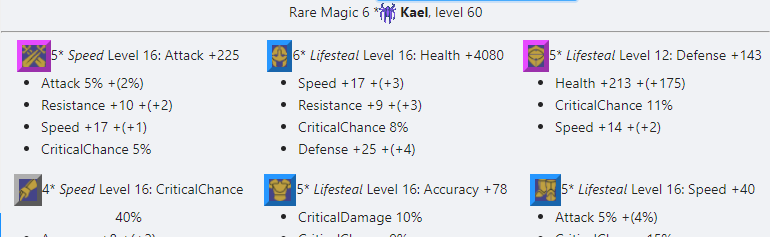
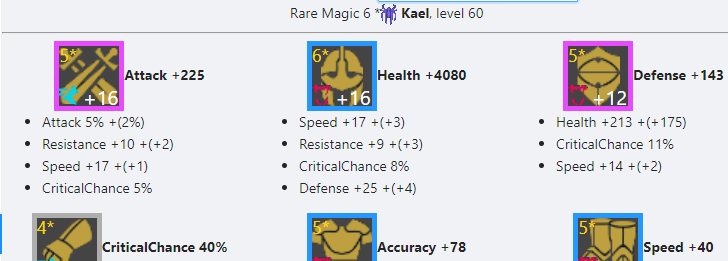
champion detail made less ugly

diff --git a/src/ArtifactRune.js b/src/ArtifactRune.js
@@ -1,0 +1,74 @@
+import React from 'react';
+import Formatter from './Formatter';
+import artifactSetsConfig from './config/artifact_sets.json';
+import artifactTypeConfig from './config/artifact_types.json';
+import Numberer from './Numberer';
+
+/**
+ * 'Rune' showing an artifact
+ * props:
+ *   artifact: the artifact to render
+ */
+class ArtifactRune extends React.Component {
+  constructor(props) {
+    super(props);
+    this.formatter = new Formatter();
+    this.numberer = new Numberer();
+    // keep a map from artifact type to data
+    this.artifactTypeMap = {};
+    artifactTypeConfig.artifact_types.forEach((typeSpec) => {
+      this.artifactTypeMap[typeSpec.key.toLowerCase()] = typeSpec;
+    });
+    // and from set type to set spec
+    this.setSpecMap = {};
+    artifactSetsConfig.sets.forEach((setSpec) => {
+      if (setSpec.jsonKey) this.setSpecMap[setSpec.jsonKey] = setSpec;
+      if (setSpec.key) this.setSpecMap[setSpec.key] = setSpec;
+    });
+
+  }
+  render() {
+    var artifact = this.props.artifact;
+    var typeSpec = this.artifactTypeMap[artifact.kind.toLowerCase()];
+    // the type and the rarity can go together in the image:
+    var msg = artifact.rarity + " " + typeSpec.label;
+    var starsText = this.numberer.Rank(artifact.rank) + "*";
+    msg = starsText + " " + msg;
+    // then a container div wrapping the image and stuff atop it
+    var containerDiv;
+    // the base image
+    var baseImg = this.formatter.Image(typeSpec.icon, msg, { "className": "artifact_icon", "rarity": artifact.rarity });
+    // the 'meatball' denoting the artifact set.
+    var meatball = null;
+    if (artifact.setKind && artifact.setKind !== "None") {
+      var spec = this.setSpecMap[artifact.setKind];
+      if (spec != null) {
+        meatball = this.formatter.Image("pix/armor_sets/" + spec.icon, spec.label,
+          { "className": "artifact_card meatball" });
+      }
+    }
+    var levelText = artifact.level ? ("+" + artifact.level) : "";
+    var level = <div className="artifact_card level_overlay">{levelText}</div>
+    var stars = <div className="artifact_card stars_overlay">{starsText}</div>
+    containerDiv = <div className="container">
+      {baseImg}
+      {stars}
+      {level}
+      {meatball}
+    </div>
+    var toRight = artifact.primaryBonus ? (<div className="primary">{this.formatter.Bonus(artifact.primaryBonus)}</div>)
+      : <div className="primary" />;
+    return <div className="artifact_rune">
+      {containerDiv}
+      {toRight}
+    </div>
+    /*
+  if (artifact.primaryBonus) {
+    parts.push(<span key="5"> {this.formatter.Bonus(artifact.primaryBonus)}</span>)
+  }
+  return <span>{parts}</span>
+  */
+  }
+}
+
+export default ArtifactRune;

diff --git a/src/App.css b/src/App.css
@@ -80,14 +80,20 @@ img.marker_icon {
 }
 
 img.artifact_icon {
-  height: 32px;
+  height: 70px;
+  width: 70px;
   border-width: thick;
-  border-style: outset;
-  background-color: #448;
+  border-style: solid;
+  background-color: #444;
+  object-fit: contain;
 }
 
 img.artifact_icon[rarity="Common"] {
   border-color: #AEAEAE;
+}
+
+img.artifact_icon[rarity="Uncommon"] {
+  border-color: #19D041;
 }
 
 img.artifact_icon[rarity="Rare"] {
@@ -122,6 +128,67 @@ div.help_page img {
   border-style: solid;
   border-width: thin;
   border-color: gray;
+}
+
+div.artifact_rune {
+  display: inline-block;
+}
+
+div.artifact_rune div.primary {
+  display: inline;
+  font-weight: bold;
+}
+
+div.artifact_rune div.container {
+  width: 70px;
+  height: 70px;
+  display: inline-block;
+  vertical-align: middle;
+  position: relative;
+}
+
+.artifact_card {
+  width: 100%;
+  height: 100%;
+  position: absolute;
+  top: 0;
+  left: 0;
+  opacity: 1.0;
+}
+
+div.stars_overlay {
+  z-index: 3;
+  top: 0px;
+  opacity: 1.0;
+  height:20px;
+  text-align: left;
+  color: gold;
+  background-image: none;
+  font-size:18px;
+  left: 5px;
+  cursor:default;
+}
+
+div.level_overlay {
+  z-index: 4;
+  top: 40px;
+  opacity: 1.0;
+  height:24px;
+  text-align: right;
+  color: white;
+  background-image: none;
+  font-size:20px;
+  left:-6px;
+  cursor:default;
+}
+
+img.meatball {
+  z-index: 8;
+  opacity: 1.0;
+  height:20px;
+  width:20px;
+  top:44px;
+  left: 5px;
 }
 
 @keyframes App-logo-spin {

diff --git a/src/LockComponent.js b/src/LockComponent.js
@@ -2,7 +2,7 @@ import React from 'react';
 import Formatter from './Formatter';
 import PossibilityCount from './PossibilityCount';
 import artifactTypeConfig from './config/artifact_types.json';
-import ArtifactOneLiner from './ArtifactOneLiner';
+import ArtifactRune from './ArtifactRune';
 
 /**
  * Shows the number of possiblities, summarized.
@@ -43,7 +43,7 @@ class LockComponent extends React.Component {
       var key = typeSpec.key.toLowerCase();
       var artifact = ownedByKind[key];
       var isLocked = this.props.lockedSlots && (key in this.props.lockedSlots);
-      var body = artifact ? <ArtifactOneLiner artifact={artifact} /> : <span>{typeSpec.label}:  -----</span>
+      var body = artifact ? <ArtifactRune artifact={artifact} /> : <span>{typeSpec.label}:  -----</span>
       list.push(<div status={isLocked ? "locked" : "unlocked"} onClick={(e) => this.onClick(key)} key={key}>{body}</div>);
     });
     return <div className="lock_list">{list}</div>

diff --git a/src/ChampionDetailPage.js b/src/ChampionDetailPage.js
@@ -8,7 +8,7 @@ import attributesConfig from './config/attributes.json';
 import greatHallConfig from './config/great_hall.json';
 import markersConfig from './config/markers.json';
 import masteriesConfig from './config/masteries.json';
-import ArtifactOneLiner from './ArtifactOneLiner';
+import ArtifactRune from './ArtifactRune';
 import { Row, Col } from 'antd';
 
 // props:
@@ -437,7 +437,7 @@ class ChampionDetailPage extends React.Component {
       return;
     }
     var parts = [];
-    parts.push(<ArtifactOneLiner artifact={artifact} />);
+    parts.push(<ArtifactRune artifact={artifact} />);
     if (artifact.secondaryBonuses && artifact.secondaryBonuses.length > 0) {
       parts.push(this.formatter.Substats(artifact.secondaryBonuses));
     }
